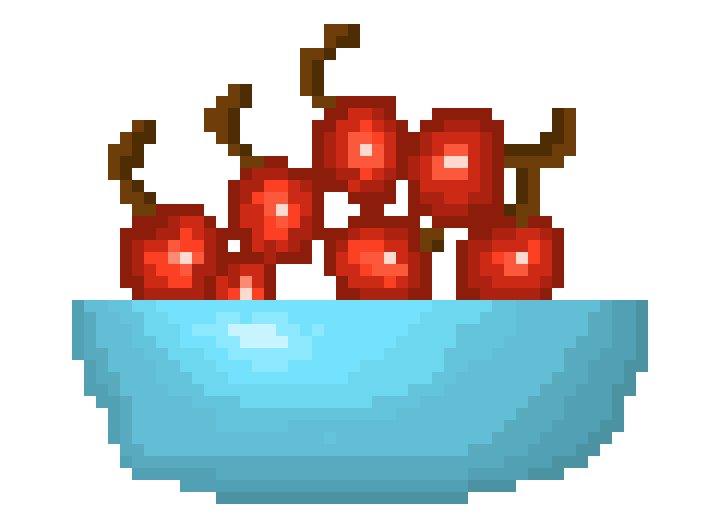
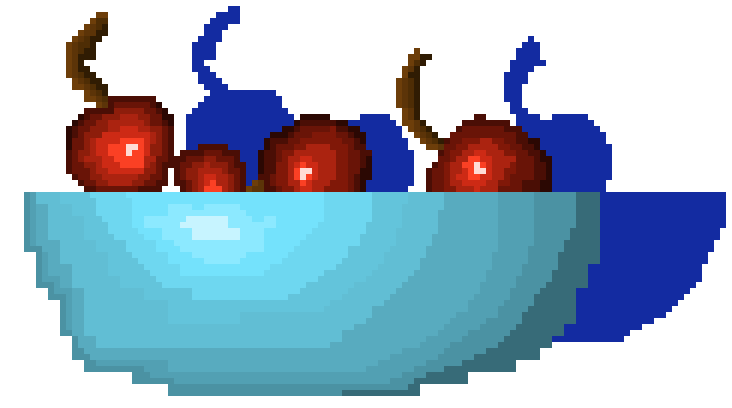
Feat: selectable animations, cones added

diff --git a/src/app/components/IceCreamGame/Selectables.tsx b/src/app/components/IceCreamGame/Selectables.tsx
@@ -14,19 +14,28 @@ export default function Selectables() {
         transition={{ type: "spring" }}
       >
         <Image src="/top-shelf.png" alt="top shelf" fill></Image>
-        <div className="absolute w-[18%] h-[75%] left-[15%] bottom-[30%]">
+        <motion.div
+          className="absolute w-[18%] h-[75%] left-[15%] bottom-[30%]"
+          whileHover={{ scale: 1.1, y: -20 }}
+        >
           <Image src="/sprinkler.png" alt="rainbow sprinkles" fill></Image>
-        </div>
-        <div className="absolute w-[18%] h-[75%] right-[41%] bottom-[30%]">
+        </motion.div>
+        <motion.div
+          className="absolute w-[18%] h-[75%] right-[41%] bottom-[30%]"
+          whileHover={{ scale: 1.1, y: -20 }}
+        >
           <Image
             src="/chocolate-sprinkler.png"
             alt="chocolate sprinkles"
             fill
           ></Image>
-        </div>
-        <div className="absolute w-[22%] h-[100%] right-[12%] bottom-[28%]">
+        </motion.div>
+        <motion.div
+          className="absolute w-[22%] h-[100%] right-[12%] bottom-[28%]"
+          whileHover={{ scale: 1.1, y: -20 }}
+        >
           <Image src="/chocolate-sauce.png" alt="chocolate sauce" fill></Image>
-        </div>
+        </motion.div>
       </motion.div>
       <motion.div
         className="absolute w-[25%] h-[15%] right-[4%] top-[27%]"
@@ -34,84 +43,192 @@ export default function Selectables() {
         animate={{ opacity: 1, scale: 1 }}
         transition={{ type: "spring", delay: 0.1 }}
       >
-        <Image src="/shelf.png" alt="shelf" fill></Image>
-        <div className="absolute w-[35%] h-[90%] left-[15%] bottom-[30%]">
+        <Image src="/bottom-shelf.png" alt="bot shelf" fill></Image>
+        <motion.div
+          className="absolute w-[45%] h-[90%] left-[16%] bottom-[31%]"
+          whileHover={{ scale: 1.1, y: -20 }}
+        >
           <Image src="/cherry-bowl.png" alt="cherry bowl" fill></Image>
-        </div>
+        </motion.div>
+        <motion.div
+          className="absolute w-[21%] h-[100%] right-[15%] bottom-[30%]"
+          whileHover={{ scale: 1.1, y: -20 }}
+        >
+          <Image
+            src="/whipped-spray.png"
+            alt="whipped cream spray"
+            fill
+          ></Image>
+        </motion.div>
       </motion.div>
 
       {/*ICE CREAMS*/}
       <motion.div
-        className="absolute w-[10%] h-[11%] left-[2%] bottom-[37%]"
-        initial={{ opacity: 0, scale: 0 }}
-        animate={{ opacity: 1, scale: 1 }}
-        transition={{ type: "spring", damping: 14 }}
+        className="absolute w-[10%] h-[11%] right-[2%] bottom-[37%]"
+        initial={{ opacity: 0, x: 450 }}
+        animate={{ opacity: 1, x: 0 }}
+        transition={{
+          opacity: { duration: 0.3 },
+          x: { type: "spring", damping: 15, delay: 0.2 },
+        }}
+        whileHover={{
+          scale: 1.1,
+          transition: { type: "spring", stiffness: 400 },
+        }}
       >
         <Image src="/vanilla.png" alt="vanilla" fill></Image>
       </motion.div>
       <motion.div
-        className="absolute w-[10%] h-[11%] left-[12%] bottom-[37%]"
-        initial={{ opacity: 0, scale: 0 }}
-        animate={{ opacity: 1, scale: 1 }}
-        transition={{ type: "spring", delay: 0.1, damping: 14 }}
+        className="absolute w-[10%] h-[11%] right-[12%] bottom-[37%]"
+        initial={{ opacity: 0, x: 450 }}
+        animate={{ opacity: 1, x: 0 }}
+        transition={{
+          opacity: { duration: 0.3 },
+          x: { type: "spring", damping: 15, delay: 0.1 },
+        }}
+        whileHover={{
+          scale: 1.1,
+          transition: { type: "spring", stiffness: 400 },
+        }}
       >
         <Image src="/chocolate.png" alt="chocolate" fill></Image>
       </motion.div>
       <motion.div
-        className="absolute w-[10%] h-[11%] left-[2%] bottom-[26%]"
-        initial={{ opacity: 0, scale: 0 }}
-        animate={{ opacity: 1, scale: 1 }}
-        transition={{ type: "spring", delay: 0.2, damping: 14 }}
+        className="absolute w-[10%] h-[11%] right-[2%] bottom-[26%]"
+        initial={{ opacity: 0, x: 450 }}
+        animate={{ opacity: 1, x: 0 }}
+        transition={{
+          opacity: { duration: 0.3 },
+          x: { type: "spring", damping: 15, delay: 0.3 },
+        }}
+        whileHover={{
+          scale: 1.1,
+          transition: { type: "spring", stiffness: 400 },
+        }}
       >
         <Image src="/strawberry.png" alt="strawberry" fill></Image>
       </motion.div>
       <motion.div
-        className="absolute w-[10%] h-[11%] left-[12%] bottom-[26%]"
-        initial={{ opacity: 0, scale: 0 }}
-        animate={{ opacity: 1, scale: 1 }}
-        transition={{ type: "spring", delay: 0.3, damping: 14 }}
+        className="absolute w-[10%] h-[11%] right-[12%] bottom-[26%]"
+        initial={{ opacity: 0, x: 450 }}
+        animate={{ opacity: 1, x: 0 }}
+        transition={{
+          opacity: { duration: 0.3 },
+          x: { type: "spring", damping: 15, delay: 0.2 },
+        }}
+        whileHover={{
+          scale: 1.1,
+          transition: { type: "spring", stiffness: 400 },
+        }}
       >
         <Image src="/mint-choco.png" alt="mint choc" fill></Image>
       </motion.div>
       <motion.div
-        className="absolute w-[10%] h-[11%] left-[22%] bottom-[37%]"
-        initial={{ opacity: 0, scale: 0 }}
-        animate={{ opacity: 1, scale: 1 }}
-        transition={{ type: "spring", delay: 0.2, damping: 14 }}
+        className="absolute w-[10%] h-[11%] right-[22%] bottom-[37%]"
+        initial={{ opacity: 0, x: 450 }}
+        animate={{ opacity: 1, x: 0 }}
+        transition={{
+          opacity: { duration: 0.3 },
+          x: { type: "spring", damping: 15 },
+        }}
+        whileHover={{
+          scale: 1.1,
+          transition: { type: "spring", stiffness: 400 },
+        }}
       >
         <Image src="/birthday-cake.png" alt="birthday" fill></Image>
       </motion.div>
       <motion.div
-        className="absolute w-[10%] h-[11%] left-[22%] bottom-[26%]"
-        initial={{ opacity: 0, scale: 0 }}
-        animate={{ opacity: 1, scale: 1 }}
-        transition={{ type: "spring", delay: 0.3, damping: 14 }}
+        className="absolute w-[10%] h-[11%] right-[22%] bottom-[26%]"
+        initial={{ opacity: 0, x: 450 }}
+        animate={{ opacity: 1, x: 0 }}
+        transition={{
+          opacity: { duration: 0.3 },
+          x: { type: "spring", damping: 15, delay: 0.1 },
+        }}
+        whileHover={{
+          scale: 1.1,
+          transition: { type: "spring", stiffness: 400 },
+        }}
       >
         <Image src="/cotton-candy.png" alt="cotton candy" fill></Image>
       </motion.div>
       <motion.div
-        className="absolute w-[10%] h-[11%] left-[2%] bottom-[15%]"
-        initial={{ opacity: 0, scale: 0 }}
-        animate={{ opacity: 1, scale: 1 }}
-        transition={{ type: "spring", delay: 0.3, damping: 14 }}
+        className="absolute w-[10%] h-[11%] right-[2%] bottom-[15%]"
+        initial={{ opacity: 0, x: 450 }}
+        animate={{ opacity: 1, x: 0 }}
+        transition={{
+          opacity: { duration: 0.3 },
+          x: { type: "spring", damping: 15, delay: 0.4 },
+        }}
+        whileHover={{
+          scale: 1.1,
+          transition: { type: "spring", stiffness: 400 },
+        }}
       >
         <Image src="/matcha.png" alt="matcha" fill></Image>
       </motion.div>
       <motion.div
-        className="absolute w-[10%] h-[11%] left-[12%] bottom-[15%]"
-        initial={{ opacity: 0, scale: 0 }}
-        animate={{ opacity: 1, scale: 1 }}
-        transition={{ type: "spring", delay: 0.4, damping: 14 }}
+        className="absolute w-[10%] h-[11%] right-[12%] bottom-[15%]"
+        initial={{ opacity: 0, x: 450 }}
+        animate={{ opacity: 1, x: 0 }}
+        transition={{
+          opacity: { duration: 0.3 },
+          x: { type: "spring", damping: 15, delay: 0.3 },
+        }}
+        whileHover={{
+          scale: 1.1,
+          transition: { type: "spring", stiffness: 400 },
+        }}
       >
         <Image src="/mango.png" alt="mango" fill></Image>
       </motion.div>
       <motion.div
-        className="absolute w-[10%] h-[11%] left-[22%] bottom-[15%]"
-        initial={{ opacity: 0, scale: 0 }}
-        animate={{ opacity: 1, scale: 1 }}
-        transition={{ type: "spring", delay: 0.5, damping: 14 }}
+        className="absolute w-[10%] h-[11%] right-[22%] bottom-[15%]"
+        initial={{ opacity: 0, x: 450 }}
+        animate={{ opacity: 1, x: 0 }}
+        transition={{
+          opacity: { duration: 0.3 },
+          x: { type: "spring", damping: 15, delay: 0.2 },
+        }}
+        whileHover={{
+          scale: 1.1,
+          transition: { type: "spring", stiffness: 400 },
+        }}
       >
         <Image src="/cookies-cream.png" alt="cookies and cream" fill></Image>
+      </motion.div>
+
+      {/* CONE STANDS */}
+      <motion.div
+        className="absolute w-[11%] h-[30%] left-[2%] bottom-[44%]"
+        initial={{ x: -300 }}
+        animate={{ x: 0 }}
+        whileHover={{ scale: 1.1, y: -30 }}
+        transition={{
+          x: { type: "spring", damping: 20, delay: 0.1 },
+          scale: { type: "spring", stiffness: 200 },
+          y: { type: "spring", stiffness: 200 },
+        }}
+      >
+        <Image src="/stand-normal.png" alt="normal cone stand" fill />
+      </motion.div>
+      <motion.div
+        className="absolute w-[11%] h-[30%] left-[13%] bottom-[44%]"
+        initial={{ x: -300 }}
+        animate={{ x: 0 }}
+        whileHover={{ scale: 1.1, y: -30 }}
+        transition={{
+          x: { type: "spring", damping: 20 },
+          scale: { type: "spring", stiffness: 200 },
+          y: { type: "spring", stiffness: 200 },
+        }}
+      >
+        <Image
+          src="/stand-chocolate.png"
+          alt="chocolate cone stand"
+          fill
+        ></Image>
       </motion.div>
     </>
   );

diff --git a/src/app/components/IceCreamGame/rooms/Kitchen.tsx b/src/app/components/IceCreamGame/rooms/Kitchen.tsx
@@ -9,7 +9,7 @@ type Props = {
 const Kitchen: React.FC<Props> = ({ onNavigate }) => {
   return (
     <>
-      <div className="absolute w-full h-full bg-[url('/kitchen.png')] bg-cover"></div>
+      <div className="absolute w-full h-full bg-[url('/kitchen.png')] bg-cover scale-x-[-1]"></div>
       <motion.div
         className="absolute w-[20%] h-[20%] left-0 top-0 translate-y-[-20%]"
         initial={{ y: -200 }}

diff --git a/src/app/components/IceCreamGame/OrderMaker.tsx b/src/app/components/IceCreamGame/OrderMaker.tsx
@@ -64,7 +64,7 @@ export default function OrderMaker() {
       "some rainbow sprinkles",
       "some chocolate syrup",
       "some whipped cream",
-      "some marshmallows",
+      "some chocolate chips",
     ];
     const popsicleFlavors = [
       "strawberry",
